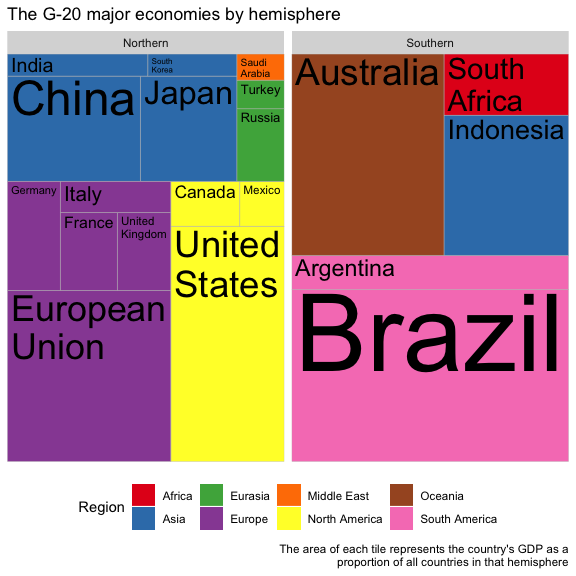
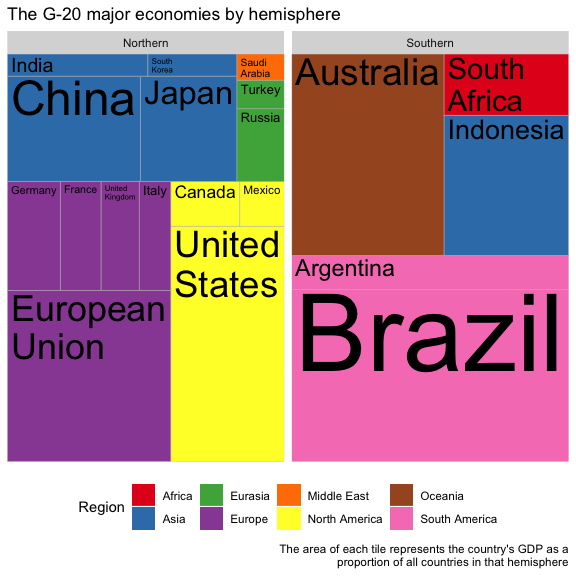
v2.5.0.9005 add new 'sopt' layout

Changed region(s): [[0.0938, 0.3125, 0.2812, 0.5]]

diff --git a/NEWS.md b/NEWS.md
@@ -1,3 +1,9 @@
+# v2.5.0.9005
+
+## Major changes
+
+- Add new default 'sopt' layout, that tries to choose optimally between placing tiles in rows vs columns
+
 # v2.5.0.9004
 
 ## Major changes
